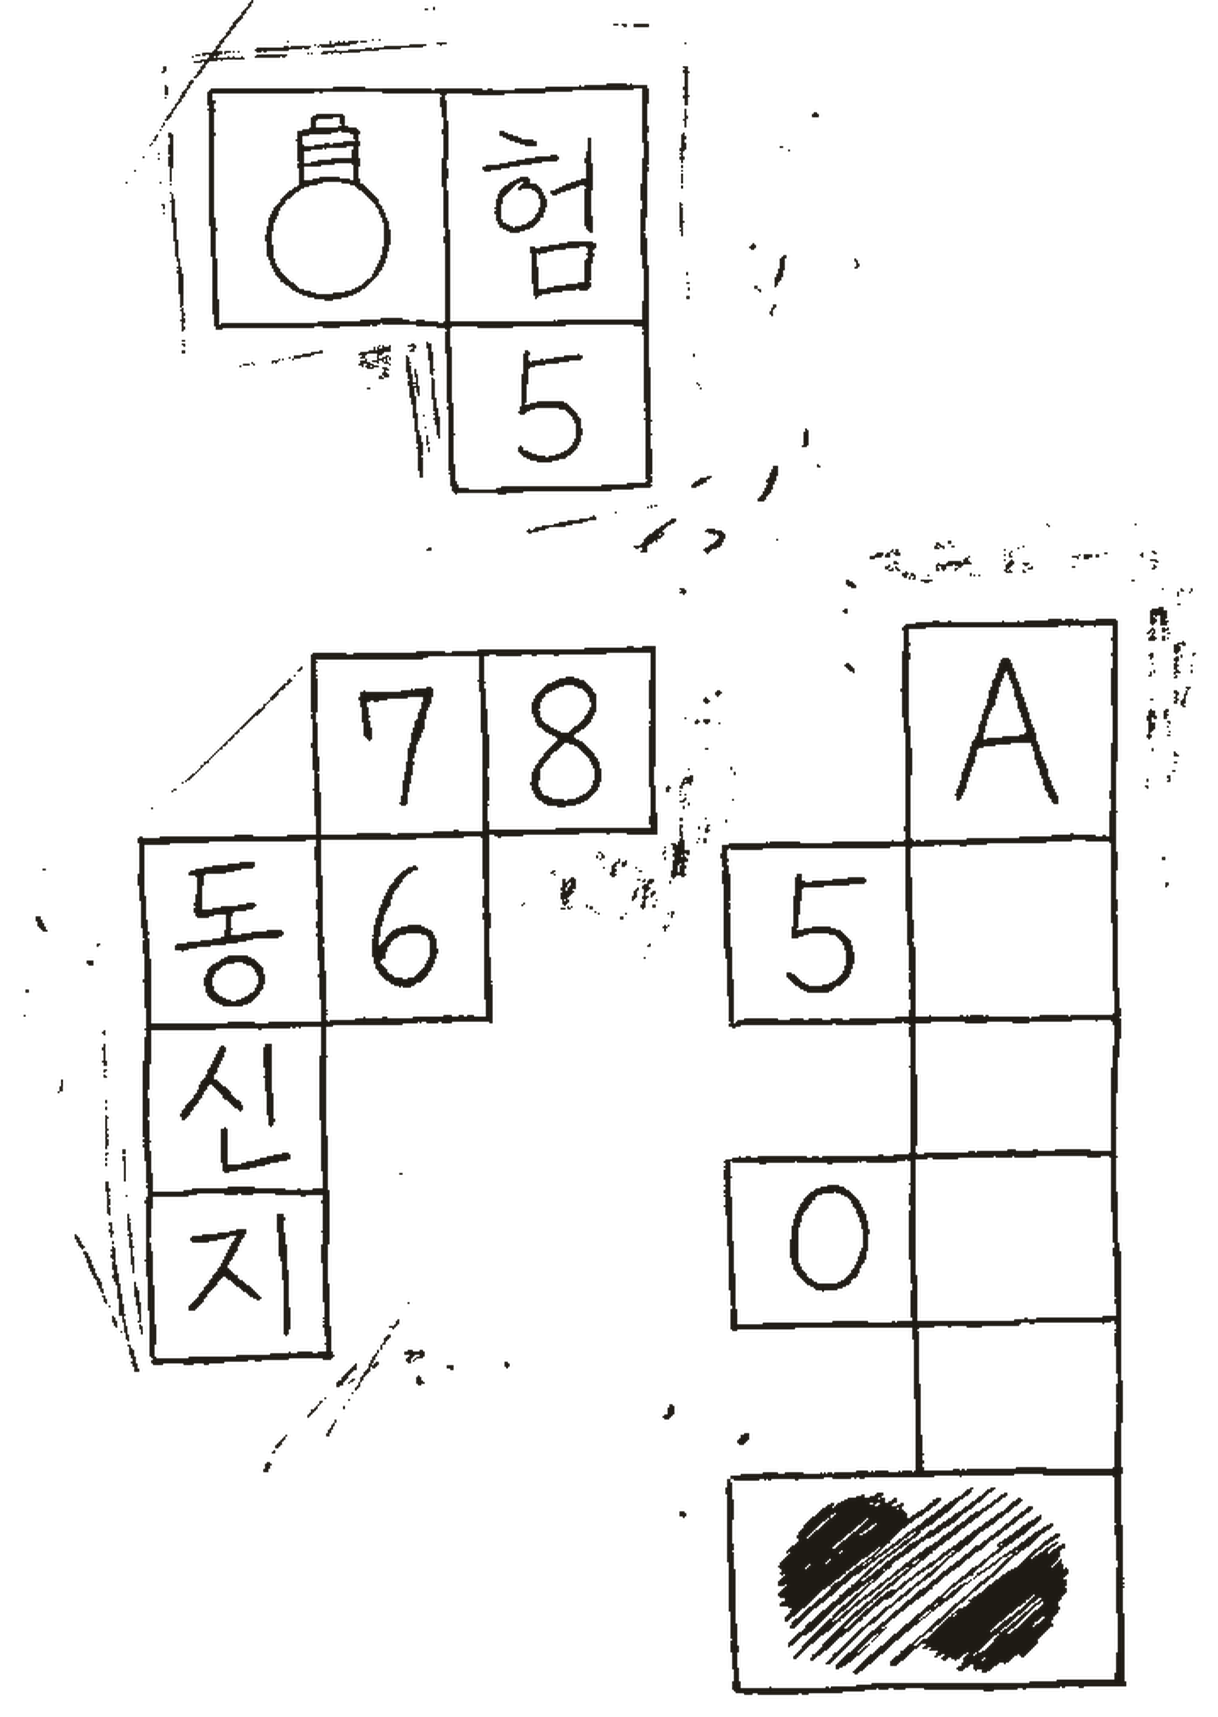
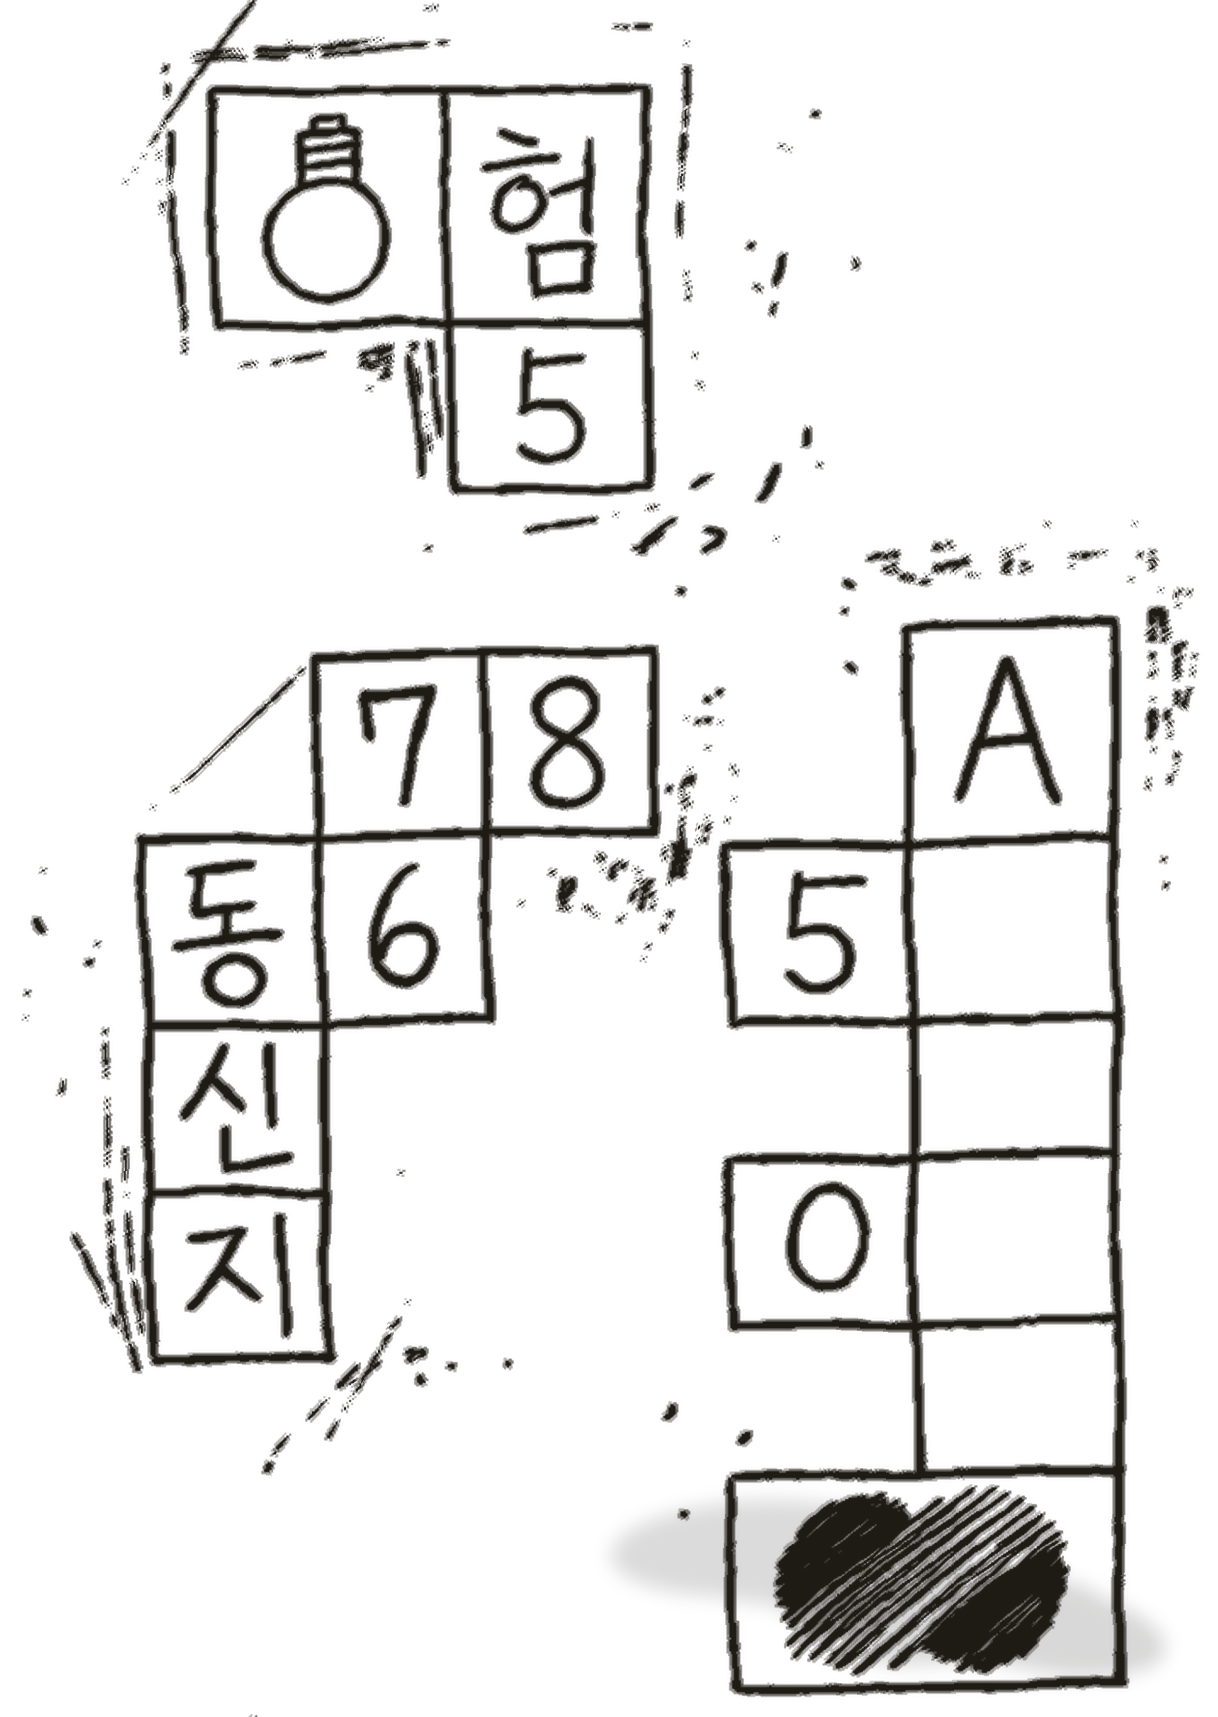
Add hand-drawn imperfection to FILE_11 kit sketch, label caption
Give the kit sketch a subtle organic wobble (less perfectly round
bulb/straight lines) and a stronger doubled-stroke border, replacing
the earlier too-strong tremor version. Add a "다음 전신주 번호" caption
below the image.

Claude-Session: https://claude.ai/code/session_01JNSv2zALJDpwVya8qsmDtn

diff --git a/index.html b/index.html
@@ -1468,7 +1468,8 @@ const files = [
   {num:12,name:'FILE_11',sub:'전신주 390-94 — 세 번째 흔적',icon:'📍',unlocked:false,
    answer:'현장 확인',unlockCode:'390-94',unlockSeparator:{char:'-',after:3},answerLen:5,
    content:`<div class="detail-section"><div class="detail-section-title">▶ 사건 일지 — 2025. 07. 15</div><div>NCI 정보국에서 알려준 전신주 위치, 연남동 390-94에 도착했다.<br>주변을 둘러보니 BLANK의 흔적으로 보이는 표식이 남아있다.<br><br>이 흔적이 다음 단서로 이어질 것 같다.</div></div>
-   <img class="detail-photo" style="border-radius:0;cursor:default;" src="assets/file11_kit.png?v=4" alt="KIT 메모">`,
+   <img class="detail-photo" style="border-radius:0;cursor:default;" src="assets/file11_kit.png?v=5" alt="KIT 메모">
+   <div style="text-align:center;font-size:11px;color:#8a7a5a;letter-spacing:1px;margin-top:2px;">다음 전신주 번호</div>`,
    hints:['연남동 390-94 주변 전신주와 표지판을 자세히 살펴보세요.','표식이나 스티커가 남아있는 곳을 찾아 키트와 대조해보세요.'],answerText:'정답: 현장에서 발견한 표식을 키트와 대조'},
 
   // #13 FILE_12
